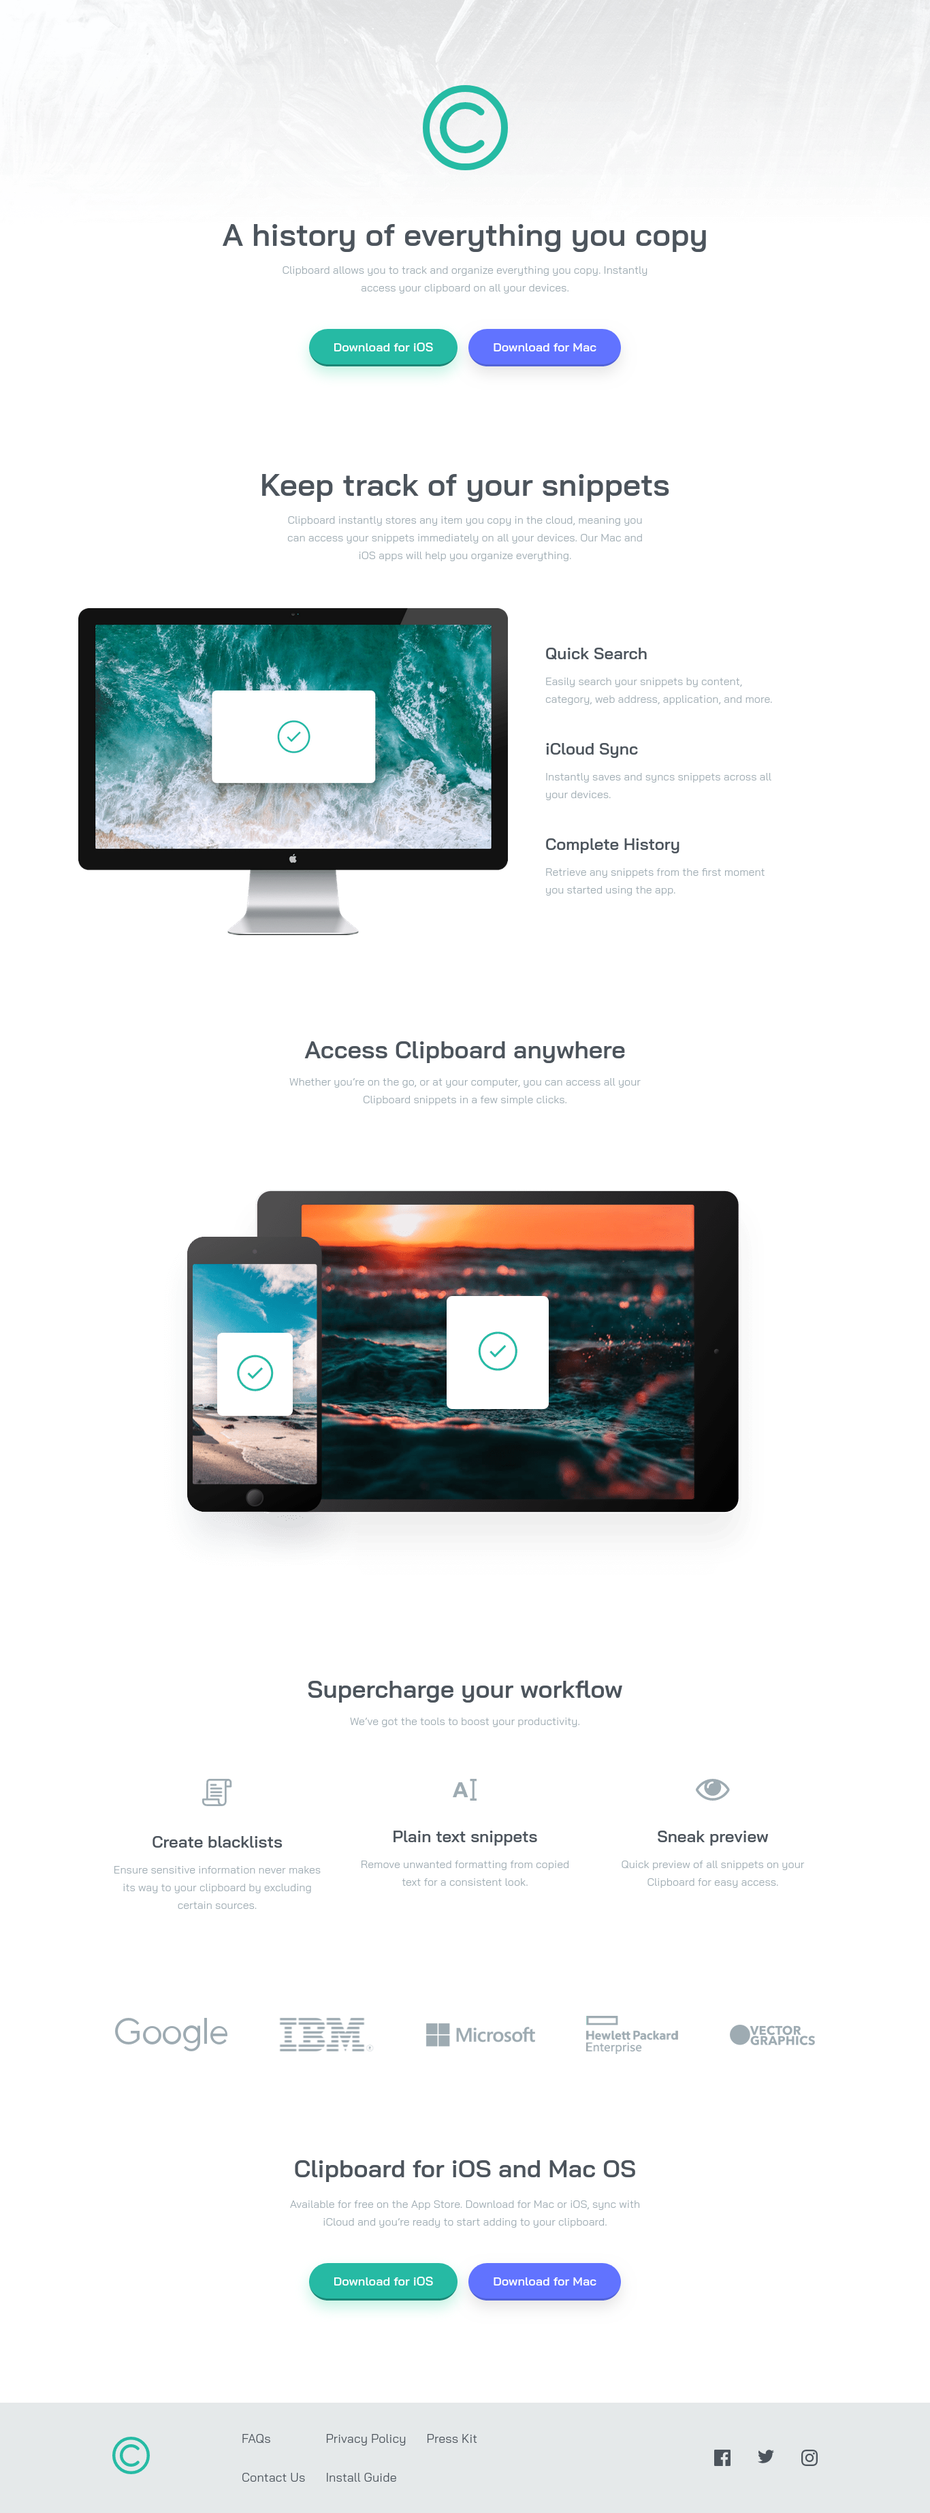
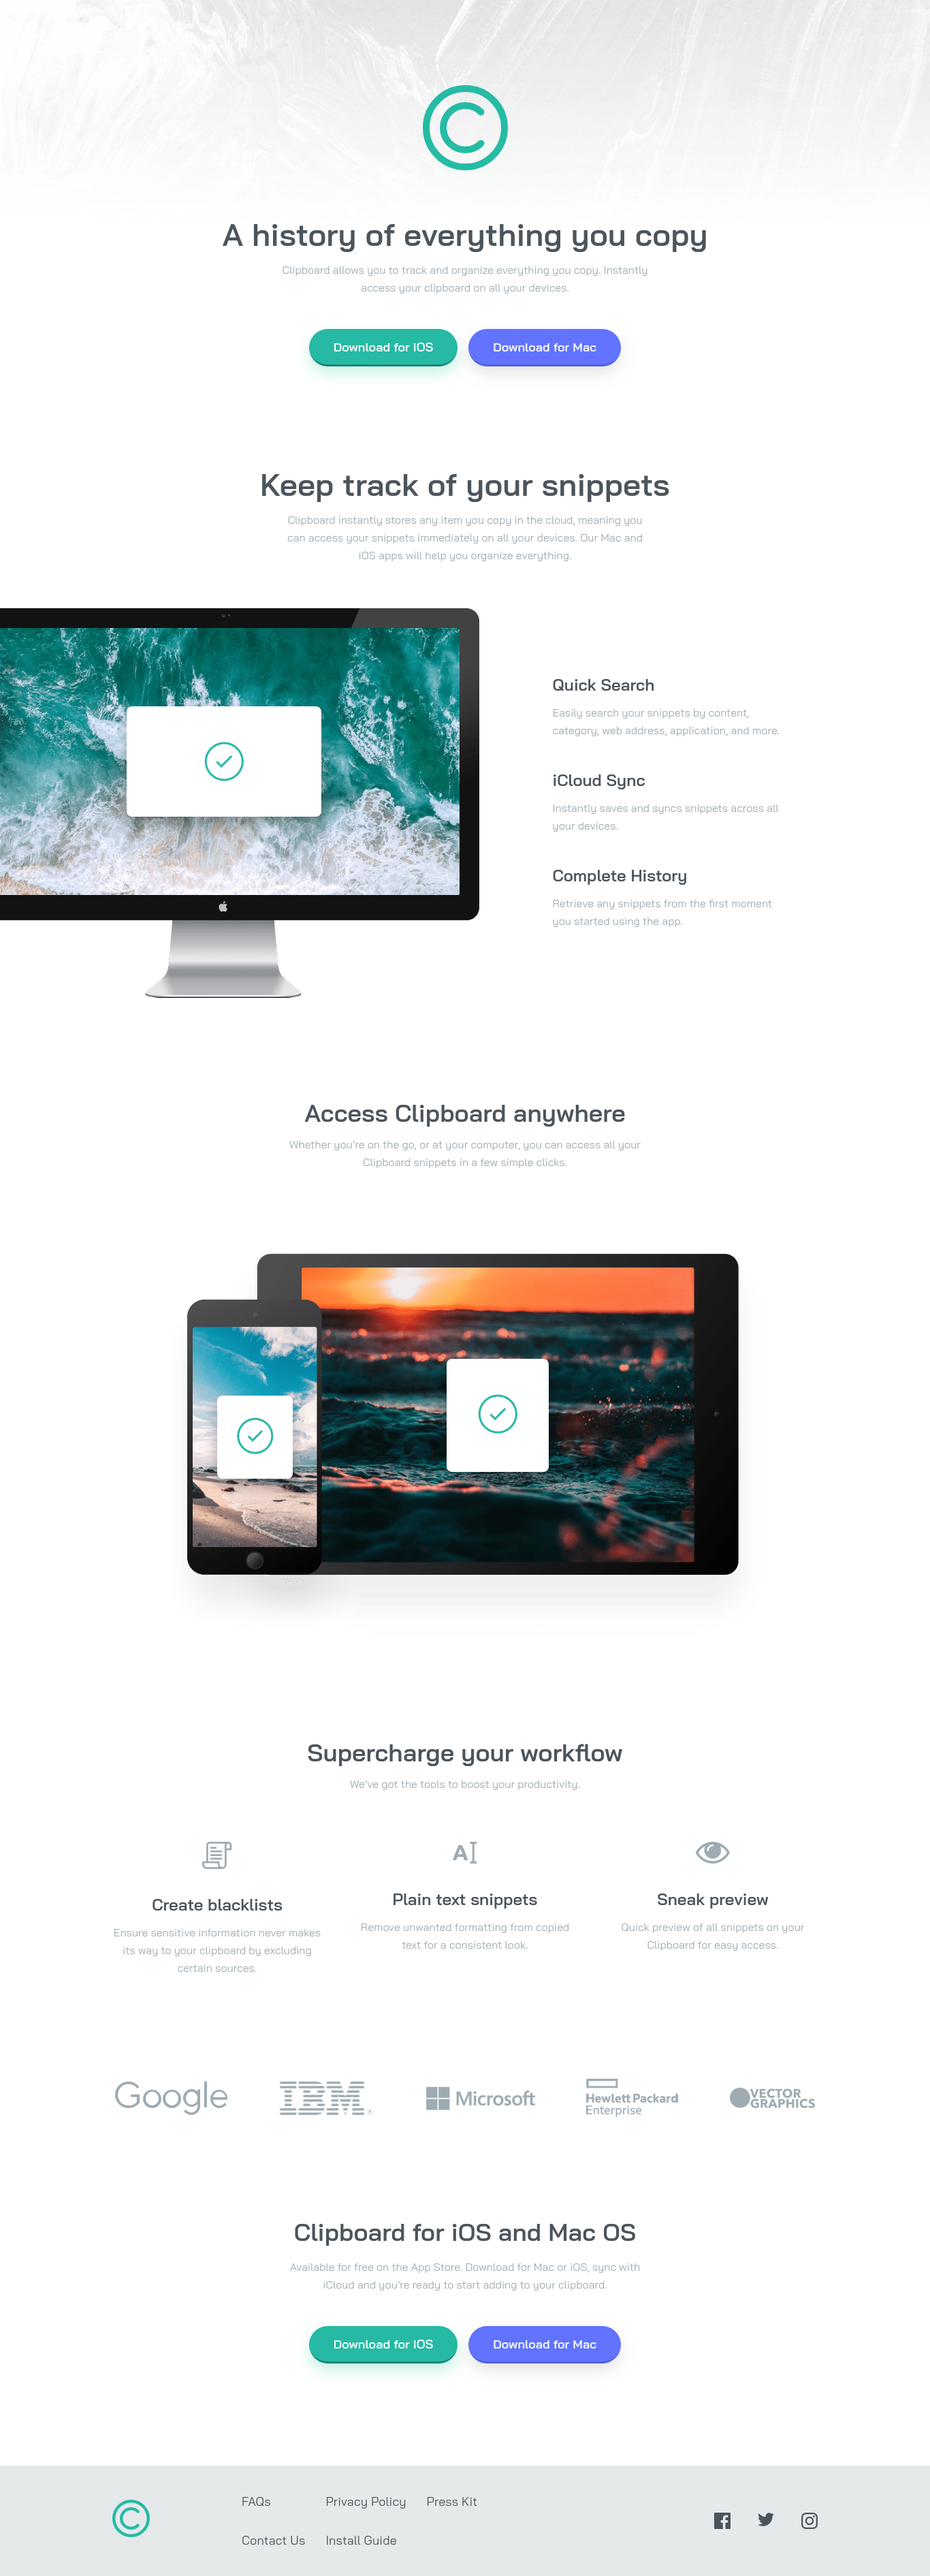
Fix snippets section image alignment issue

diff --git a/css/main.css b/css/main.css
@@ -197,6 +197,11 @@ h3 {
   grid-template-columns: auto;
   gap: 4.0625rem;
 }
+@media (min-width: 80.0625rem) {
+  .main__snippets__section {
+    padding: 0;
+  }
+}
 @media (min-width: 30.0625rem) {
   .main__snippets__section__overview__description {
     max-width: 34.375rem;
@@ -204,7 +209,6 @@ h3 {
   }
 }
 .main__snippets__section__features {
-  overflow: hidden;
   display: grid;
   grid-template-columns: auto;
   gap: 3.4375rem;
@@ -217,11 +221,6 @@ h3 {
     gap: 3.4375rem;
     align-items: center;
     transform: translateX(-6.25rem);
-  }
-}
-@media (min-width: 80.0625rem) {
-  .main__snippets__section__features {
-    transform: translateX(-3.125rem);
   }
 }
 .main__snippets__section__features__items {
@@ -246,6 +245,7 @@ h3 {
 @media (min-width: 64.0625rem) {
   .main__snippets__section__features__items {
     max-width: 21.875rem;
+    margin-inline-start: 0;
     text-align: left;
     display: grid;
     grid-template-columns: auto;
@@ -446,4 +446,5 @@ h3 {
   display: flex;
   gap: 2.5rem;
 }
[1 lines of base64/hex data omitted]
+
+/*# sourceMappingURL=main.css.map */

diff --git a/sass/main.scss b/sass/main.scss
@@ -37,6 +37,9 @@
   }
   &__snippets {
     &__section {
+      @include desktop {
+        padding: 0;
+      }
       @include grid(auto, 4.0625rem);
       &__overview {
         &__description {
@@ -44,16 +47,12 @@
         }
       }
       &__features {
-        overflow: hidden;
         @include grid(auto, 3.4375rem);
         justify-items: center;
         @include laptop {
           @include grid(repeat(2, auto), 3.4375rem);
           align-items: center;
           transform: translateX(-6.25rem);
-        }
-        @include desktop {
-          transform: translateX(-3.125rem);
         }
         &__items {
           @include content-max-width;
@@ -64,6 +63,7 @@
           }
           @include laptop {
             max-width: 21.875rem;
+            margin-inline-start: 0;
             text-align: left;
             @include grid(auto, 3rem);
           }
